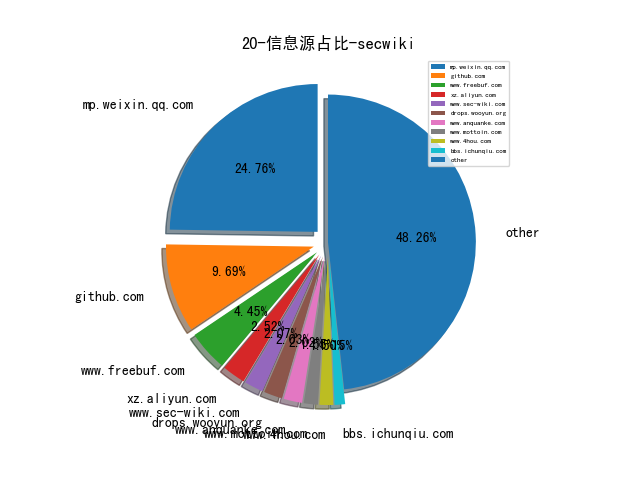
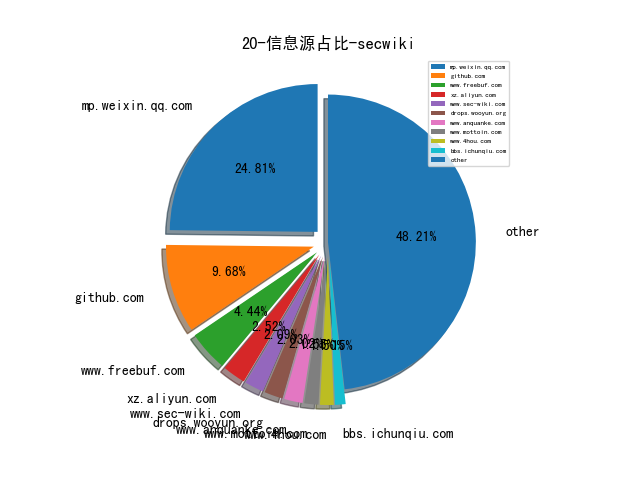
2025-07-17 00:07:00

diff --git a/README_20.md b/README_20.md
@@ -1312,7 +1312,7 @@
 | 安全圈 | None | 【安全圈】500美元就能遥控列车急刹？美国铁路12年前的惊天漏洞，如今才被曝光！ | https://mp.weixin.qq.com/s?__biz=MzIzMzE4NDU1OQ==&mid=2652070668&idx=3&sn=f6738b4d25376f97072651a492c6a6f8 | 1416| 
 | 安全威胁纵横 | None | 12 年未修复！500 美元设备就能远程逼停北美列车，隐患有多惊人？ | https://mp.weixin.qq.com/s?__biz=Mzk0MDYwMjE3OQ==&mid=2247486962&idx=1&sn=7d9531e1ebcb9fcd5d4109f0a701b4ee | 131| 
 | 安全牛 | None | 启明星辰发布业绩预告：上半年预计亏损0.73亿至1.03亿；发布48小时内就被越狱破解，Grok-4应用安全性令人担忧 , 牛览 | https://mp.weixin.qq.com/s?__biz=MjM5Njc3NjM4MA==&mid=2651138043&idx=2&sn=8fc398bc5c6fd64192af434032d100c5 | 504| 
-| 安博通 | None | 安博通实力入围信通院《数字安全护航技术能力全景图》，39项中选彰显硬核科技 | https://mp.weixin.qq.com/s?__biz=MzIyNTA5Mzc2OA==&mid=2651138014&idx=1&sn=e1cb0828dd113bf96c8461a58f6820a4 | 25| 
+| 安博通 | 安博通 | 安博通实力入围信通院《数字安全护航技术能力全景图》，39项中选彰显硬核科技 | https://mp.weixin.qq.com/s?__biz=MzIyNTA5Mzc2OA==&mid=2651138014&idx=1&sn=e1cb0828dd113bf96c8461a58f6820a4 | 25| 
 | 安在 | None | 1分钟安全科普 , 系统运维安全 | https://mp.weixin.qq.com/s?__biz=MzU5ODgzNTExOQ==&mid=2247641707&idx=3&sn=8044787ed1d6850f7128d188a71b599f | 863| 
 | 安恒信息 | None | “一周懿语”丨第十九期 | https://mp.weixin.qq.com/s?__biz=MjM5NTE0MjQyMg==&mid=2650630676&idx=1&sn=e3a33a8a0fe3c263c7249cafe0c39673 | 263| 
 | 安恒信息CERT | None | 网络安全信息与动态周报2025年第27期（6月30日-7月6日） | https://mp.weixin.qq.com/s?__biz=MzUzOTE2OTM5Mg==&mid=2247490480&idx=3&sn=b538e978c2c121ce0367666569aa7c77 | 107| 
@@ -1322,7 +1322,7 @@
 | 工业信息安全创新中心 | None | 工信安创参加成都市经信局新型技改服务商政策解读培训会 | https://mp.weixin.qq.com/s?__biz=MzAwNTc0ODM3Nw==&mid=2247489621&idx=1&sn=32531b2973bf3f202c3fedbe044a92bb | 11| 
 | 弱口令安全实验室 | None | 个人向国际网络安全证书深度推荐 | https://mp.weixin.qq.com/s?__biz=MzkyNzMyNjcwNQ==&mid=2247488485&idx=1&sn=1094affd5d674c0a438c4c569655cc6c | 12| 
 | 恒星EDU | None | 共绘网安未来，《2025网络安全产业人才发展报告》问卷调查邀您共同参与！（可参与抽奖） | https://mp.weixin.qq.com/s?__biz=MzU1MzE3Njg2Mw==&mid=2247511084&idx=1&sn=94ee828c0d3eec3a7911cb5b6499b58a | 36| 
-| 恒脑与AI | None | AI网安攻防成国防第一战线！美国防部8亿天价AI合同落定硅谷四巨头！ | https://mp.weixin.qq.com/s?__biz=MzI1MDU5NjYwNg==&mid=2247497193&idx=1&sn=e257547e92a2b5fea5e3054e4785ffc7 | 9| 
+| 恒脑与AI | AI前沿 | AI网安攻防成国防第一战线！美国防部8亿天价AI合同落定硅谷四巨头！ | https://mp.weixin.qq.com/s?__biz=MzI1MDU5NjYwNg==&mid=2247497193&idx=1&sn=e257547e92a2b5fea5e3054e4785ffc7 | 9| 
 | 情报分析师 | None | 俄军向乌军机器人投降！无人机与机器人如何改写战争法则，讨论我面临的无人作战的安全挑战 | https://mp.weixin.qq.com/s?__biz=MzA3Mjc1MTkwOA==&mid=2650561776&idx=2&sn=60ffa4afe644054abc4c0e78df8b0c46 | 459| 
 | 情报分析师Pro | None | 俄军向乌军机器人投降！无人机与机器人如何改写战争法则，讨论我面临的无人作战的安全挑战 | https://mp.weixin.qq.com/s?__biz=MzkwNzM0NzA5MA==&mid=2247510263&idx=1&sn=c335a9dc48d968e7d91ae67d596f0e9f | 189| 
 | 技术修道场 | None | FileFix实战首秀：当你的文件管理器地址栏成为Interlock勒索软件的“帮凶” | https://mp.weixin.qq.com/s?__biz=MzA4NTY4MjAyMQ==&mid=2447900948&idx=1&sn=0c33c4cd0e2ea8f0370f734fcc4800a0 | 142| 
@@ -1343,7 +1343,7 @@
 | 漏洞集萃 | None | 就因API没做权限校验，他把别人的任务列表给删了，还赚了$5000 | https://mp.weixin.qq.com/s?__biz=MzkxNjc0ODA3NQ==&mid=2247484080&idx=1&sn=d97c3b8d1228301da0fad28a23fbccc4 | 8| 
 | 独眼情报 | None | 篇 16 | https://mp.weixin.qq.com/s?__biz=MzkzNDIzNDUxOQ==&mid=2247500779&idx=2&sn=65579783519267560a16a625a26527dc | 631| 
 | 生有可恋 | hyang0 | 如何申请一个90天的免费证书 | https://mp.weixin.qq.com/s?__biz=Mzk0MTI4NTIzNQ==&mid=2247494226&idx=1&sn=1eeae8d1520ea9633a476fa827a22e4c | 137| 
-| 白帽子社区团队 | None | 推荐一个网络安全模型 | https://mp.weixin.qq.com/s?__biz=MzkzNDQ0MDcxMw==&mid=2247488097&idx=1&sn=3eca6197d6b82caa4ad7de23166da5fe | 83| 
+| 白帽子社区团队 | tHnn | 推荐一个网络安全模型 | https://mp.weixin.qq.com/s?__biz=MzkzNDQ0MDcxMw==&mid=2247488097&idx=1&sn=3eca6197d6b82caa4ad7de23166da5fe | 83| 
 | 百灵猫开源情报分析师 | None | 美稀土破局的新动向和后续手段 | https://mp.weixin.qq.com/s?__biz=MzkxMTA3MDk3NA==&mid=2247487870&idx=1&sn=ed08b63d8adc1b81305826407632f500 | 62| 
 | 看雪学苑 | None | 想赢 CTF 竞赛？先学这30小时，五大方向全覆盖 | https://mp.weixin.qq.com/s?__biz=MjM5NTc2MDYxMw==&mid=2458597210&idx=3&sn=1f9f5c255276f9dc4ea1b725fc672c4b | 1132| 
 | 知道创宇 | None | 破解网络黑话烂梗，拦截血腥暴力，ScanA 如何为未成年人网络暑期 “排雷”？ | https://mp.weixin.qq.com/s?__biz=MjM5NzA3Nzg2MA==&mid=2649872000&idx=1&sn=272e959d68d3f48d5ff390a43772ed0a | 166| 
@@ -1356,7 +1356,7 @@
 | 网安守护 | None | 最近的 AI 新闻很多，来个极速的早报+点评 | https://mp.weixin.qq.com/s?__biz=MzU4NDY3MTk2NQ==&mid=2247491784&idx=1&sn=9ad5d686bf5fc58f5a640399d3da1456 | 110| 
 | 网易易盾 | None | 网易易盾全系安全产品兼容16KB Google Play | https://mp.weixin.qq.com/s?__biz=MzAwNTg2NjYxOA==&mid=2650743814&idx=1&sn=bdb492cc7b011f4c9ff1f751080ff9e4 | 34| 
 | 网络安全和信息化 | None | 你的充电宝安全吗？未来新国标将设置更严格安全技术标准 | https://mp.weixin.qq.com/s?__biz=MjM5MzMwMDU5NQ==&mid=2649173796&idx=2&sn=c70b6007a08bb7de6f20de240e5c61b0 | 663| 
-| 网络安全备忘录 | None | 《GB/T 45909—2025 网络安全技术 数字水印技术实现指南》（自2026年1月1日起实施） | https://mp.weixin.qq.com/s?__biz=MzA3NDMyNDM0NQ==&mid=2247485124&idx=1&sn=f58e5c44ca66d6f2f6f3a6313a20c15c | 38| 
+| 网络安全备忘录 |  | 《GB/T 45909—2025 网络安全技术 数字水印技术实现指南》（自2026年1月1日起实施） | https://mp.weixin.qq.com/s?__biz=MzA3NDMyNDM0NQ==&mid=2247485124&idx=1&sn=f58e5c44ca66d6f2f6f3a6313a20c15c | 38| 
 | 网络技术联盟站 | None | 全屋光纤不是梦，但为什么光纤至今取代不了网线？ | https://mp.weixin.qq.com/s?__biz=MzIyMzIwNzAxMQ==&mid=2649469387&idx=1&sn=77d56597415b64313c77d0dc5720297c | 329| 
 | 美创资讯 | None | 权威发布 , 美创数据安全一体化平台DSC市场份额排名前五，领跑专精厂商 | https://mp.weixin.qq.com/s?__biz=MzA3NDE0NDUyNA==&mid=2650816326&idx=1&sn=9847dd21609342b15a499dc34af2b488 | 29| 
 | 聚铭网络 | None | AISOC运营手记 , 别让攻防演练沦为“纸上谈兵” | https://mp.weixin.qq.com/s?__biz=MzIzMDQwMjg5NA==&mid=2247507630&idx=1&sn=cccba79036818c8d1d884bfb07b52199 | 56| 
@@ -1375,7 +1375,7 @@
 | 长亭安全观察 | None | 关注｜中央网信办就《数据安全技术 电子产品信息清除技术要求》强制性国家标准（征求意见稿）公开征求意见 | https://mp.weixin.qq.com/s?__biz=MzkyNDUyNzU1MQ==&mid=2247488007&idx=1&sn=902cdc830196c60a165a7930374e03ac | 169| 
 | 阿乐你好 | None | ？？？ | https://mp.weixin.qq.com/s?__biz=MzIxNTIzNTExMQ==&mid=2247491955&idx=1&sn=5240f92d05b9ecf4e4899de349b88ccb | 124| 
 | 雷神众测 | None | 雷神众测漏洞周报2025.7.7-2025.7.13 | https://mp.weixin.qq.com/s?__biz=MzI0NzEwOTM0MA==&mid=2652503462&idx=1&sn=0f722394919e6b8af1e3bb654383e66c | 73| 
-| 雾帜智能 | None | AI + 等保 = ？答案：一键生成安全审计报告 | https://mp.weixin.qq.com/s?__biz=Mzg4MjI0MDAyMg==&mid=2247488729&idx=1&sn=580b3065b4816eb41d3b47a4daec5c86 | 6| 
+| 雾帜智能 | 吴梓豪Zachary | AI + 等保 = ？答案：一键生成安全审计报告 | https://mp.weixin.qq.com/s?__biz=Mzg4MjI0MDAyMg==&mid=2247488729&idx=1&sn=580b3065b4816eb41d3b47a4daec5c86 | 6| 
 | 顺丰安全应急响应中心 | None | 白帽行为准则：技术需克制，合规是首要责任 | https://mp.weixin.qq.com/s?__biz=MzU3OTAyODk4MQ==&mid=2247491357&idx=1&sn=9c3d5cc9a73c40f919887eda03b00bbd | 41| 
 | 飓风网络安全 | None | 7.15hvv情报 | https://mp.weixin.qq.com/s?__biz=MzI3NzMzNzE5Ng==&mid=2247490436&idx=1&sn=2fa3f7d81465e27c8e80c8d626338ff5 | 344| 
 | 飞天诚信 | 飞天诚信 | 战绩可查！飞天诚信参与起草的多项行业标准在密标委官网公开 | https://mp.weixin.qq.com/s?__biz=MjM5NDE1MjU2Mg==&mid=2649877280&idx=1&sn=221556a7b47b3d29dfbd37c7c0dcce78 | 50| 
@@ -1485,7 +1485,6 @@
 | 小黑子安全 | None | 记一次企业src漏洞挖掘连爆七个漏洞！ | https://mp.weixin.qq.com/s?__biz=Mzg5NDg4MzYzNQ==&mid=2247486552&idx=1&sn=41c4e4a40fd104f53e22f5a7143c88ad | 34| 
 | 山石网科 | None | 聚焦主论坛｜“安芯守护 智启未来”——2025年 · 安全守护者峰会 | https://mp.weixin.qq.com/s?__biz=MjM5MTk4MjA2MA==&mid=2650108134&idx=1&sn=20e952a1754f606a7bbb11920e392065 | 10| 
 | 山石网科安全技术研究院 | None | 聚焦主论坛｜“安芯守护 智启未来”——2025年 · 安全守护者峰会 | https://mp.weixin.qq.com/s?__biz=MzUzMDUxNTE1Mw==&mid=2247512510&idx=1&sn=d5474a401ff36899db1e1843cbfe6972 | 141| 
-| 希潭实验室 | None | 第130篇：方程式工具包图形界面版V0.51更新+新功能+提升稳定性 | https://mp.weixin.qq.com/s?__biz=MzkzMjI1NjI3Ng==&mid=2247487640&idx=1&sn=8fcd8b78297611b4d8e0fbeb8e4a14de | 31| 
 | 平凡安全 | None | 【攻防实战】记一次DC2攻防实战 | https://mp.weixin.qq.com/s?__biz=Mzg5NTU2NjA1Mw==&mid=2247503322&idx=1&sn=9988d5d41c1396bf85d2791dfe286f62 | 5| 
 | 张无瑕思密达 | None | 结婚越来越少，生孩越来越少，已是大势所趋，甚至人心所向 | https://mp.weixin.qq.com/s?__biz=MzkwMzI1ODUwNA==&mid=2247488059&idx=1&sn=9f2e1d2a3c9505b68ad22180e8b65600 | 60| 
 | 掌控安全EDU | None | 两款工具授权机制逆向分析纪实 | https://mp.weixin.qq.com/s?__biz=MzUyODkwNDIyMg==&mid=2247550881&idx=1&sn=39b573830c82e12482bb47e553ce3358 | 439| 
@@ -1726,6 +1725,7 @@
 | 二进制磨剑 | 二进制磨剑 | IDA 逆向分析不再重复劳动：MCP × LLM 的自动化实践 | https://mp.weixin.qq.com/s/5J4B7KrfxcjuRBrg9pnDjA | 70| 
 | 哆啦安全 | None | Zygisk注入器 - 动动手指轻松注入并隐藏你的SO文件 | https://mp.weixin.qq.com/s?__biz=Mzg2NzUzNzk1Mw==&mid=2247498287&idx=2&sn=33adf71010b2cfe4ec9b1a9ec3e68b8f | 129| 
 | 工联安全众测 | None | 工信部印发《2025年护航新型工业化网络安全专项行动方案》（附全文） | https://mp.weixin.qq.com/s?__biz=MzkyMDMwNTkwNg==&mid=2247487713&idx=1&sn=3d9fc64039958175c63bf0c4d5e1b8fb | 34| 
+| 希潭实验室 | abc123info | 第122篇：国hu攻防比赛蓝队防守经验总结（中篇） | https://mp.weixin.qq.com/s/m5Ka-nZbh73iB_hholABOQ | 31| 
 | 永信至诚 | None | “银狐风波”复盘：看某大型石化集团如何基于「数字风洞」管理数字健康 | https://mp.weixin.qq.com/s?__biz=MzAwNDUyMjk4MQ==&mid=2454831032&idx=1&sn=cae3f5e5db21dc42b534f75b1b4082f5 | 36| 
 | 腾讯技术工程 | 腾讯悟空团队 | 悟空Agent实战：LLaMA-Factory高危0day漏洞挖掘与修复 | https://mp.weixin.qq.com/s/UV8gb01reKewskxRc_0NQA | 135| 
 | 超安全 | None | 六个实用策略，打造2025年网络安全宣传周峰值体验！ | https://mp.weixin.qq.com/s?__biz=MzU0MDc5ODM0Mg==&mid=2247485172&idx=1&sn=96f5ef91a0c8cce84e98abbc136fa270 | 26| 

diff --git a/README_2025.md b/README_2025.md
@@ -370,7 +370,7 @@
 | 安全圈 | None | 【安全圈】500美元就能遥控列车急刹？美国铁路12年前的惊天漏洞，如今才被曝光！ | https://mp.weixin.qq.com/s?__biz=MzIzMzE4NDU1OQ==&mid=2652070668&idx=3&sn=f6738b4d25376f97072651a492c6a6f8 | 446| 
 | 安全威胁纵横 | None | 12 年未修复！500 美元设备就能远程逼停北美列车，隐患有多惊人？ | https://mp.weixin.qq.com/s?__biz=Mzk0MDYwMjE3OQ==&mid=2247486962&idx=1&sn=7d9531e1ebcb9fcd5d4109f0a701b4ee | 72| 
 | 安全牛 | None | 启明星辰发布业绩预告：上半年预计亏损0.73亿至1.03亿；发布48小时内就被越狱破解，Grok-4应用安全性令人担忧 , 牛览 | https://mp.weixin.qq.com/s?__biz=MjM5Njc3NjM4MA==&mid=2651138043&idx=2&sn=8fc398bc5c6fd64192af434032d100c5 | 164| 
-| 安博通 | None | 安博通实力入围信通院《数字安全护航技术能力全景图》，39项中选彰显硬核科技 | https://mp.weixin.qq.com/s?__biz=MzIyNTA5Mzc2OA==&mid=2651138014&idx=1&sn=e1cb0828dd113bf96c8461a58f6820a4 | 21| 
+| 安博通 | 安博通 | 安博通实力入围信通院《数字安全护航技术能力全景图》，39项中选彰显硬核科技 | https://mp.weixin.qq.com/s?__biz=MzIyNTA5Mzc2OA==&mid=2651138014&idx=1&sn=e1cb0828dd113bf96c8461a58f6820a4 | 21| 
 | 安在 | None | 1分钟安全科普 , 系统运维安全 | https://mp.weixin.qq.com/s?__biz=MzU5ODgzNTExOQ==&mid=2247641707&idx=3&sn=8044787ed1d6850f7128d188a71b599f | 286| 
 | 安恒信息 | None | “一周懿语”丨第十九期 | https://mp.weixin.qq.com/s?__biz=MjM5NTE0MjQyMg==&mid=2650630676&idx=1&sn=e3a33a8a0fe3c263c7249cafe0c39673 | 34| 
 | 安恒信息CERT | None | 网络安全信息与动态周报2025年第27期（6月30日-7月6日） | https://mp.weixin.qq.com/s?__biz=MzUzOTE2OTM5Mg==&mid=2247490480&idx=3&sn=b538e978c2c121ce0367666569aa7c77 | 44| 
@@ -380,7 +380,7 @@
 | 工业信息安全创新中心 | None | 工信安创参加成都市经信局新型技改服务商政策解读培训会 | https://mp.weixin.qq.com/s?__biz=MzAwNTc0ODM3Nw==&mid=2247489621&idx=1&sn=32531b2973bf3f202c3fedbe044a92bb | 10| 
 | 弱口令安全实验室 | None | 个人向国际网络安全证书深度推荐 | https://mp.weixin.qq.com/s?__biz=MzkyNzMyNjcwNQ==&mid=2247488485&idx=1&sn=1094affd5d674c0a438c4c569655cc6c | 4| 
 | 恒星EDU | None | 共绘网安未来，《2025网络安全产业人才发展报告》问卷调查邀您共同参与！（可参与抽奖） | https://mp.weixin.qq.com/s?__biz=MzU1MzE3Njg2Mw==&mid=2247511084&idx=1&sn=94ee828c0d3eec3a7911cb5b6499b58a | 8| 
-| 恒脑与AI | None | AI网安攻防成国防第一战线！美国防部8亿天价AI合同落定硅谷四巨头！ | https://mp.weixin.qq.com/s?__biz=MzI1MDU5NjYwNg==&mid=2247497193&idx=1&sn=e257547e92a2b5fea5e3054e4785ffc7 | 9| 
+| 恒脑与AI | AI前沿 | AI网安攻防成国防第一战线！美国防部8亿天价AI合同落定硅谷四巨头！ | https://mp.weixin.qq.com/s?__biz=MzI1MDU5NjYwNg==&mid=2247497193&idx=1&sn=e257547e92a2b5fea5e3054e4785ffc7 | 9| 
 | 情报分析师 | None | 俄军向乌军机器人投降！无人机与机器人如何改写战争法则，讨论我面临的无人作战的安全挑战 | https://mp.weixin.qq.com/s?__biz=MzA3Mjc1MTkwOA==&mid=2650561776&idx=2&sn=60ffa4afe644054abc4c0e78df8b0c46 | 105| 
 | 情报分析师Pro | None | 俄军向乌军机器人投降！无人机与机器人如何改写战争法则，讨论我面临的无人作战的安全挑战 | https://mp.weixin.qq.com/s?__biz=MzkwNzM0NzA5MA==&mid=2247510263&idx=1&sn=c335a9dc48d968e7d91ae67d596f0e9f | 71| 
 | 技术修道场 | None | FileFix实战首秀：当你的文件管理器地址栏成为Interlock勒索软件的“帮凶” | https://mp.weixin.qq.com/s?__biz=MzA4NTY4MjAyMQ==&mid=2447900948&idx=1&sn=0c33c4cd0e2ea8f0370f734fcc4800a0 | 58| 
@@ -401,7 +401,7 @@
 | 漏洞集萃 | None | 就因API没做权限校验，他把别人的任务列表给删了，还赚了$5000 | https://mp.weixin.qq.com/s?__biz=MzkxNjc0ODA3NQ==&mid=2247484080&idx=1&sn=d97c3b8d1228301da0fad28a23fbccc4 | 8| 
 | 独眼情报 | None | 篇 16 | https://mp.weixin.qq.com/s?__biz=MzkzNDIzNDUxOQ==&mid=2247500779&idx=2&sn=65579783519267560a16a625a26527dc | 235| 
 | 生有可恋 | hyang0 | 如何申请一个90天的免费证书 | https://mp.weixin.qq.com/s?__biz=Mzk0MTI4NTIzNQ==&mid=2247494226&idx=1&sn=1eeae8d1520ea9633a476fa827a22e4c | 62| 
-| 白帽子社区团队 | None | 推荐一个网络安全模型 | https://mp.weixin.qq.com/s?__biz=MzkzNDQ0MDcxMw==&mid=2247488097&idx=1&sn=3eca6197d6b82caa4ad7de23166da5fe | 26| 
+| 白帽子社区团队 | tHnn | 推荐一个网络安全模型 | https://mp.weixin.qq.com/s?__biz=MzkzNDQ0MDcxMw==&mid=2247488097&idx=1&sn=3eca6197d6b82caa4ad7de23166da5fe | 26| 
 | 百灵猫开源情报分析师 | None | 美稀土破局的新动向和后续手段 | https://mp.weixin.qq.com/s?__biz=MzkxMTA3MDk3NA==&mid=2247487870&idx=1&sn=ed08b63d8adc1b81305826407632f500 | 48| 
 | 看雪学苑 | None | 想赢 CTF 竞赛？先学这30小时，五大方向全覆盖 | https://mp.weixin.qq.com/s?__biz=MjM5NTc2MDYxMw==&mid=2458597210&idx=3&sn=1f9f5c255276f9dc4ea1b725fc672c4b | 340| 
 | 知道创宇 | None | 破解网络黑话烂梗，拦截血腥暴力，ScanA 如何为未成年人网络暑期 “排雷”？ | https://mp.weixin.qq.com/s?__biz=MjM5NzA3Nzg2MA==&mid=2649872000&idx=1&sn=272e959d68d3f48d5ff390a43772ed0a | 42| 
@@ -414,7 +414,7 @@
 | 网安守护 | None | 最近的 AI 新闻很多，来个极速的早报+点评 | https://mp.weixin.qq.com/s?__biz=MzU4NDY3MTk2NQ==&mid=2247491784&idx=1&sn=9ad5d686bf5fc58f5a640399d3da1456 | 58| 
 | 网易易盾 | None | 网易易盾全系安全产品兼容16KB Google Play | https://mp.weixin.qq.com/s?__biz=MzAwNTg2NjYxOA==&mid=2650743814&idx=1&sn=bdb492cc7b011f4c9ff1f751080ff9e4 | 31| 
 | 网络安全和信息化 | None | 你的充电宝安全吗？未来新国标将设置更严格安全技术标准 | https://mp.weixin.qq.com/s?__biz=MjM5MzMwMDU5NQ==&mid=2649173796&idx=2&sn=c70b6007a08bb7de6f20de240e5c61b0 | 272| 
-| 网络安全备忘录 | None | 《GB/T 45909—2025 网络安全技术 数字水印技术实现指南》（自2026年1月1日起实施） | https://mp.weixin.qq.com/s?__biz=MzA3NDMyNDM0NQ==&mid=2247485124&idx=1&sn=f58e5c44ca66d6f2f6f3a6313a20c15c | 18| 
+| 网络安全备忘录 |  | 《GB/T 45909—2025 网络安全技术 数字水印技术实现指南》（自2026年1月1日起实施） | https://mp.weixin.qq.com/s?__biz=MzA3NDMyNDM0NQ==&mid=2247485124&idx=1&sn=f58e5c44ca66d6f2f6f3a6313a20c15c | 18| 
 | 网络技术联盟站 | None | 全屋光纤不是梦，但为什么光纤至今取代不了网线？ | https://mp.weixin.qq.com/s?__biz=MzIyMzIwNzAxMQ==&mid=2649469387&idx=1&sn=77d56597415b64313c77d0dc5720297c | 133| 
 | 美创资讯 | None | 权威发布 , 美创数据安全一体化平台DSC市场份额排名前五，领跑专精厂商 | https://mp.weixin.qq.com/s?__biz=MzA3NDE0NDUyNA==&mid=2650816326&idx=1&sn=9847dd21609342b15a499dc34af2b488 | 26| 
 | 聚铭网络 | None | AISOC运营手记 , 别让攻防演练沦为“纸上谈兵” | https://mp.weixin.qq.com/s?__biz=MzIzMDQwMjg5NA==&mid=2247507630&idx=1&sn=cccba79036818c8d1d884bfb07b52199 | 50| 
@@ -433,7 +433,7 @@
 | 长亭安全观察 | None | 关注｜中央网信办就《数据安全技术 电子产品信息清除技术要求》强制性国家标准（征求意见稿）公开征求意见 | https://mp.weixin.qq.com/s?__biz=MzkyNDUyNzU1MQ==&mid=2247488007&idx=1&sn=902cdc830196c60a165a7930374e03ac | 85| 
 | 阿乐你好 | None | ？？？ | https://mp.weixin.qq.com/s?__biz=MzIxNTIzNTExMQ==&mid=2247491955&idx=1&sn=5240f92d05b9ecf4e4899de349b88ccb | 42| 
 | 雷神众测 | None | 雷神众测漏洞周报2025.7.7-2025.7.13 | https://mp.weixin.qq.com/s?__biz=MzI0NzEwOTM0MA==&mid=2652503462&idx=1&sn=0f722394919e6b8af1e3bb654383e66c | 12| 
-| 雾帜智能 | None | AI + 等保 = ？答案：一键生成安全审计报告 | https://mp.weixin.qq.com/s?__biz=Mzg4MjI0MDAyMg==&mid=2247488729&idx=1&sn=580b3065b4816eb41d3b47a4daec5c86 | 6| 
+| 雾帜智能 | 吴梓豪Zachary | AI + 等保 = ？答案：一键生成安全审计报告 | https://mp.weixin.qq.com/s?__biz=Mzg4MjI0MDAyMg==&mid=2247488729&idx=1&sn=580b3065b4816eb41d3b47a4daec5c86 | 6| 
 | 顺丰安全应急响应中心 | None | 白帽行为准则：技术需克制，合规是首要责任 | https://mp.weixin.qq.com/s?__biz=MzU3OTAyODk4MQ==&mid=2247491357&idx=1&sn=9c3d5cc9a73c40f919887eda03b00bbd | 10| 
 | 飓风网络安全 | None | 7.15hvv情报 | https://mp.weixin.qq.com/s?__biz=MzI3NzMzNzE5Ng==&mid=2247490436&idx=1&sn=2fa3f7d81465e27c8e80c8d626338ff5 | 96| 
 | 飞天诚信 | 飞天诚信 | 战绩可查！飞天诚信参与起草的多项行业标准在密标委官网公开 | https://mp.weixin.qq.com/s?__biz=MjM5NDE1MjU2Mg==&mid=2649877280&idx=1&sn=221556a7b47b3d29dfbd37c7c0dcce78 | 49| 
@@ -543,7 +543,6 @@
 | 小黑子安全 | None | 记一次企业src漏洞挖掘连爆七个漏洞！ | https://mp.weixin.qq.com/s?__biz=Mzg5NDg4MzYzNQ==&mid=2247486552&idx=1&sn=41c4e4a40fd104f53e22f5a7143c88ad | 2| 
 | 山石网科 | None | 聚焦主论坛｜“安芯守护 智启未来”——2025年 · 安全守护者峰会 | https://mp.weixin.qq.com/s?__biz=MjM5MTk4MjA2MA==&mid=2650108134&idx=1&sn=20e952a1754f606a7bbb11920e392065 | 8| 
 | 山石网科安全技术研究院 | None | 聚焦主论坛｜“安芯守护 智启未来”——2025年 · 安全守护者峰会 | https://mp.weixin.qq.com/s?__biz=MzUzMDUxNTE1Mw==&mid=2247512510&idx=1&sn=d5474a401ff36899db1e1843cbfe6972 | 32| 
-| 希潭实验室 | None | 第130篇：方程式工具包图形界面版V0.51更新+新功能+提升稳定性 | https://mp.weixin.qq.com/s?__biz=MzkzMjI1NjI3Ng==&mid=2247487640&idx=1&sn=8fcd8b78297611b4d8e0fbeb8e4a14de | 11| 
 | 平凡安全 | None | 【攻防实战】记一次DC2攻防实战 | https://mp.weixin.qq.com/s?__biz=Mzg5NTU2NjA1Mw==&mid=2247503322&idx=1&sn=9988d5d41c1396bf85d2791dfe286f62 | 5| 
 | 张无瑕思密达 | None | 结婚越来越少，生孩越来越少，已是大势所趋，甚至人心所向 | https://mp.weixin.qq.com/s?__biz=MzkwMzI1ODUwNA==&mid=2247488059&idx=1&sn=9f2e1d2a3c9505b68ad22180e8b65600 | 20| 
 | 掌控安全EDU | None | 两款工具授权机制逆向分析纪实 | https://mp.weixin.qq.com/s?__biz=MzUyODkwNDIyMg==&mid=2247550881&idx=1&sn=39b573830c82e12482bb47e553ce3358 | 68| 
@@ -784,6 +783,7 @@
 | 二进制磨剑 | 二进制磨剑 | IDA 逆向分析不再重复劳动：MCP × LLM 的自动化实践 | https://mp.weixin.qq.com/s/5J4B7KrfxcjuRBrg9pnDjA | 19| 
 | 哆啦安全 | None | Zygisk注入器 - 动动手指轻松注入并隐藏你的SO文件 | https://mp.weixin.qq.com/s?__biz=Mzg2NzUzNzk1Mw==&mid=2247498287&idx=2&sn=33adf71010b2cfe4ec9b1a9ec3e68b8f | 53| 
 | 工联安全众测 | None | 工信部印发《2025年护航新型工业化网络安全专项行动方案》（附全文） | https://mp.weixin.qq.com/s?__biz=MzkyMDMwNTkwNg==&mid=2247487713&idx=1&sn=3d9fc64039958175c63bf0c4d5e1b8fb | 19| 
+| 希潭实验室 | abc123info | 第122篇：国hu攻防比赛蓝队防守经验总结（中篇） | https://mp.weixin.qq.com/s/m5Ka-nZbh73iB_hholABOQ | 11| 
 | 永信至诚 | None | “银狐风波”复盘：看某大型石化集团如何基于「数字风洞」管理数字健康 | https://mp.weixin.qq.com/s?__biz=MzAwNDUyMjk4MQ==&mid=2454831032&idx=1&sn=cae3f5e5db21dc42b534f75b1b4082f5 | 5| 
 | 腾讯技术工程 | 腾讯悟空团队 | 悟空Agent实战：LLaMA-Factory高危0day漏洞挖掘与修复 | https://mp.weixin.qq.com/s/UV8gb01reKewskxRc_0NQA | 59| 
 | 超安全 | None | 六个实用策略，打造2025年网络安全宣传周峰值体验！ | https://mp.weixin.qq.com/s?__biz=MzU0MDc5ODM0Mg==&mid=2247485172&idx=1&sn=96f5ef91a0c8cce84e98abbc136fa270 | 20| 

diff --git a/README.md b/README.md
@@ -101,7 +101,7 @@
 | 安全圈 | None | 【安全圈】500美元就能遥控列车急刹？美国铁路12年前的惊天漏洞，如今才被曝光！ | https://mp.weixin.qq.com/s?__biz=MzIzMzE4NDU1OQ==&mid=2652070668&idx=3&sn=f6738b4d25376f97072651a492c6a6f8 | 29| 
 | 安全威胁纵横 | None | 12 年未修复！500 美元设备就能远程逼停北美列车，隐患有多惊人？ | https://mp.weixin.qq.com/s?__biz=Mzk0MDYwMjE3OQ==&mid=2247486962&idx=1&sn=7d9531e1ebcb9fcd5d4109f0a701b4ee | 5| 
 | 安全牛 | None | 启明星辰发布业绩预告：上半年预计亏损0.73亿至1.03亿；发布48小时内就被越狱破解，Grok-4应用安全性令人担忧 , 牛览 | https://mp.weixin.qq.com/s?__biz=MjM5Njc3NjM4MA==&mid=2651138043&idx=2&sn=8fc398bc5c6fd64192af434032d100c5 | 10| 
-| 安博通 | None | 安博通实力入围信通院《数字安全护航技术能力全景图》，39项中选彰显硬核科技 | https://mp.weixin.qq.com/s?__biz=MzIyNTA5Mzc2OA==&mid=2651138014&idx=1&sn=e1cb0828dd113bf96c8461a58f6820a4 | 1| 
+| 安博通 | 安博通 | 安博通实力入围信通院《数字安全护航技术能力全景图》，39项中选彰显硬核科技 | https://mp.weixin.qq.com/s?__biz=MzIyNTA5Mzc2OA==&mid=2651138014&idx=1&sn=e1cb0828dd113bf96c8461a58f6820a4 | 1| 
 | 安在 | None | 1分钟安全科普 , 系统运维安全 | https://mp.weixin.qq.com/s?__biz=MzU5ODgzNTExOQ==&mid=2247641707&idx=3&sn=8044787ed1d6850f7128d188a71b599f | 26| 
 | 安恒信息 | None | “一周懿语”丨第十九期 | https://mp.weixin.qq.com/s?__biz=MjM5NTE0MjQyMg==&mid=2650630676&idx=1&sn=e3a33a8a0fe3c263c7249cafe0c39673 | 3| 
 | 安恒信息CERT | None | 网络安全信息与动态周报2025年第27期（6月30日-7月6日） | https://mp.weixin.qq.com/s?__biz=MzUzOTE2OTM5Mg==&mid=2247490480&idx=3&sn=b538e978c2c121ce0367666569aa7c77 | 8| 
@@ -111,7 +111,7 @@
 | 工业信息安全创新中心 | None | 工信安创参加成都市经信局新型技改服务商政策解读培训会 | https://mp.weixin.qq.com/s?__biz=MzAwNTc0ODM3Nw==&mid=2247489621&idx=1&sn=32531b2973bf3f202c3fedbe044a92bb | 7| 
 | 弱口令安全实验室 | None | 个人向国际网络安全证书深度推荐 | https://mp.weixin.qq.com/s?__biz=MzkyNzMyNjcwNQ==&mid=2247488485&idx=1&sn=1094affd5d674c0a438c4c569655cc6c | 1| 
 | 恒星EDU | None | 共绘网安未来，《2025网络安全产业人才发展报告》问卷调查邀您共同参与！（可参与抽奖） | https://mp.weixin.qq.com/s?__biz=MzU1MzE3Njg2Mw==&mid=2247511084&idx=1&sn=94ee828c0d3eec3a7911cb5b6499b58a | 2| 
-| 恒脑与AI | None | AI网安攻防成国防第一战线！美国防部8亿天价AI合同落定硅谷四巨头！ | https://mp.weixin.qq.com/s?__biz=MzI1MDU5NjYwNg==&mid=2247497193&idx=1&sn=e257547e92a2b5fea5e3054e4785ffc7 | 1| 
+| 恒脑与AI | AI前沿 | AI网安攻防成国防第一战线！美国防部8亿天价AI合同落定硅谷四巨头！ | https://mp.weixin.qq.com/s?__biz=MzI1MDU5NjYwNg==&mid=2247497193&idx=1&sn=e257547e92a2b5fea5e3054e4785ffc7 | 1| 
 | 情报分析师 | None | 俄军向乌军机器人投降！无人机与机器人如何改写战争法则，讨论我面临的无人作战的安全挑战 | https://mp.weixin.qq.com/s?__biz=MzA3Mjc1MTkwOA==&mid=2650561776&idx=2&sn=60ffa4afe644054abc4c0e78df8b0c46 | 10| 
 | 情报分析师Pro | None | 俄军向乌军机器人投降！无人机与机器人如何改写战争法则，讨论我面临的无人作战的安全挑战 | https://mp.weixin.qq.com/s?__biz=MzkwNzM0NzA5MA==&mid=2247510263&idx=1&sn=c335a9dc48d968e7d91ae67d596f0e9f | 9| 
 | 技术修道场 | None | FileFix实战首秀：当你的文件管理器地址栏成为Interlock勒索软件的“帮凶” | https://mp.weixin.qq.com/s?__biz=MzA4NTY4MjAyMQ==&mid=2447900948&idx=1&sn=0c33c4cd0e2ea8f0370f734fcc4800a0 | 9| 
@@ -132,7 +132,7 @@
 | 漏洞集萃 | None | 就因API没做权限校验，他把别人的任务列表给删了，还赚了$5000 | https://mp.weixin.qq.com/s?__biz=MzkxNjc0ODA3NQ==&mid=2247484080&idx=1&sn=d97c3b8d1228301da0fad28a23fbccc4 | 3| 
 | 独眼情报 | None | 篇 16 | https://mp.weixin.qq.com/s?__biz=MzkzNDIzNDUxOQ==&mid=2247500779&idx=2&sn=65579783519267560a16a625a26527dc | 16| 
 | 生有可恋 | hyang0 | 如何申请一个90天的免费证书 | https://mp.weixin.qq.com/s?__biz=Mzk0MTI4NTIzNQ==&mid=2247494226&idx=1&sn=1eeae8d1520ea9633a476fa827a22e4c | 8| 
-| 白帽子社区团队 | None | 推荐一个网络安全模型 | https://mp.weixin.qq.com/s?__biz=MzkzNDQ0MDcxMw==&mid=2247488097&idx=1&sn=3eca6197d6b82caa4ad7de23166da5fe | 3| 
+| 白帽子社区团队 | tHnn | 推荐一个网络安全模型 | https://mp.weixin.qq.com/s?__biz=MzkzNDQ0MDcxMw==&mid=2247488097&idx=1&sn=3eca6197d6b82caa4ad7de23166da5fe | 3| 
 | 百灵猫开源情报分析师 | None | 美稀土破局的新动向和后续手段 | https://mp.weixin.qq.com/s?__biz=MzkxMTA3MDk3NA==&mid=2247487870&idx=1&sn=ed08b63d8adc1b81305826407632f500 | 3| 
 | 看雪学苑 | None | 想赢 CTF 竞赛？先学这30小时，五大方向全覆盖 | https://mp.weixin.qq.com/s?__biz=MjM5NTc2MDYxMw==&mid=2458597210&idx=3&sn=1f9f5c255276f9dc4ea1b725fc672c4b | 24| 
 | 知道创宇 | None | 破解网络黑话烂梗，拦截血腥暴力，ScanA 如何为未成年人网络暑期 “排雷”？ | https://mp.weixin.qq.com/s?__biz=MjM5NzA3Nzg2MA==&mid=2649872000&idx=1&sn=272e959d68d3f48d5ff390a43772ed0a | 4| 
@@ -145,7 +145,7 @@
 | 网安守护 | None | 最近的 AI 新闻很多，来个极速的早报+点评 | https://mp.weixin.qq.com/s?__biz=MzU4NDY3MTk2NQ==&mid=2247491784&idx=1&sn=9ad5d686bf5fc58f5a640399d3da1456 | 4| 
 | 网易易盾 | None | 网易易盾全系安全产品兼容16KB Google Play | https://mp.weixin.qq.com/s?__biz=MzAwNTg2NjYxOA==&mid=2650743814&idx=1&sn=bdb492cc7b011f4c9ff1f751080ff9e4 | 2| 
 | 网络安全和信息化 | None | 你的充电宝安全吗？未来新国标将设置更严格安全技术标准 | https://mp.weixin.qq.com/s?__biz=MjM5MzMwMDU5NQ==&mid=2649173796&idx=2&sn=c70b6007a08bb7de6f20de240e5c61b0 | 20| 
-| 网络安全备忘录 | None | 《GB/T 45909—2025 网络安全技术 数字水印技术实现指南》（自2026年1月1日起实施） | https://mp.weixin.qq.com/s?__biz=MzA3NDMyNDM0NQ==&mid=2247485124&idx=1&sn=f58e5c44ca66d6f2f6f3a6313a20c15c | 2| 
+| 网络安全备忘录 |  | 《GB/T 45909—2025 网络安全技术 数字水印技术实现指南》（自2026年1月1日起实施） | https://mp.weixin.qq.com/s?__biz=MzA3NDMyNDM0NQ==&mid=2247485124&idx=1&sn=f58e5c44ca66d6f2f6f3a6313a20c15c | 2| 
 | 网络技术联盟站 | None | 全屋光纤不是梦，但为什么光纤至今取代不了网线？ | https://mp.weixin.qq.com/s?__biz=MzIyMzIwNzAxMQ==&mid=2649469387&idx=1&sn=77d56597415b64313c77d0dc5720297c | 10| 
 | 美创资讯 | None | 权威发布 , 美创数据安全一体化平台DSC市场份额排名前五，领跑专精厂商 | https://mp.weixin.qq.com/s?__biz=MzA3NDE0NDUyNA==&mid=2650816326&idx=1&sn=9847dd21609342b15a499dc34af2b488 | 4| 
 | 聚铭网络 | None | AISOC运营手记 , 别让攻防演练沦为“纸上谈兵” | https://mp.weixin.qq.com/s?__biz=MzIzMDQwMjg5NA==&mid=2247507630&idx=1&sn=cccba79036818c8d1d884bfb07b52199 | 4| 
@@ -164,7 +164,7 @@
 | 长亭安全观察 | None | 关注｜中央网信办就《数据安全技术 电子产品信息清除技术要求》强制性国家标准（征求意见稿）公开征求意见 | https://mp.weixin.qq.com/s?__biz=MzkyNDUyNzU1MQ==&mid=2247488007&idx=1&sn=902cdc830196c60a165a7930374e03ac | 6| 
 | 阿乐你好 | None | ？？？ | https://mp.weixin.qq.com/s?__biz=MzIxNTIzNTExMQ==&mid=2247491955&idx=1&sn=5240f92d05b9ecf4e4899de349b88ccb | 9| 
 | 雷神众测 | None | 雷神众测漏洞周报2025.7.7-2025.7.13 | https://mp.weixin.qq.com/s?__biz=MzI0NzEwOTM0MA==&mid=2652503462&idx=1&sn=0f722394919e6b8af1e3bb654383e66c | 1| 
-| 雾帜智能 | None | AI + 等保 = ？答案：一键生成安全审计报告 | https://mp.weixin.qq.com/s?__biz=Mzg4MjI0MDAyMg==&mid=2247488729&idx=1&sn=580b3065b4816eb41d3b47a4daec5c86 | 3| 
+| 雾帜智能 | 吴梓豪Zachary | AI + 等保 = ？答案：一键生成安全审计报告 | https://mp.weixin.qq.com/s?__biz=Mzg4MjI0MDAyMg==&mid=2247488729&idx=1&sn=580b3065b4816eb41d3b47a4daec5c86 | 3| 
 | 顺丰安全应急响应中心 | None | 白帽行为准则：技术需克制，合规是首要责任 | https://mp.weixin.qq.com/s?__biz=MzU3OTAyODk4MQ==&mid=2247491357&idx=1&sn=9c3d5cc9a73c40f919887eda03b00bbd | 1| 
 | 飓风网络安全 | None | 7.15hvv情报 | https://mp.weixin.qq.com/s?__biz=MzI3NzMzNzE5Ng==&mid=2247490436&idx=1&sn=2fa3f7d81465e27c8e80c8d626338ff5 | 8| 
 | 飞天诚信 | 飞天诚信 | 战绩可查！飞天诚信参与起草的多项行业标准在密标委官网公开 | https://mp.weixin.qq.com/s?__biz=MjM5NDE1MjU2Mg==&mid=2649877280&idx=1&sn=221556a7b47b3d29dfbd37c7c0dcce78 | 7| 
@@ -274,7 +274,6 @@
 | 小黑子安全 | None | 记一次企业src漏洞挖掘连爆七个漏洞！ | https://mp.weixin.qq.com/s?__biz=Mzg5NDg4MzYzNQ==&mid=2247486552&idx=1&sn=41c4e4a40fd104f53e22f5a7143c88ad | 2| 
 | 山石网科 | None | 聚焦主论坛｜“安芯守护 智启未来”——2025年 · 安全守护者峰会 | https://mp.weixin.qq.com/s?__biz=MjM5MTk4MjA2MA==&mid=2650108134&idx=1&sn=20e952a1754f606a7bbb11920e392065 | 1| 
 | 山石网科安全技术研究院 | None | 聚焦主论坛｜“安芯守护 智启未来”——2025年 · 安全守护者峰会 | https://mp.weixin.qq.com/s?__biz=MzUzMDUxNTE1Mw==&mid=2247512510&idx=1&sn=d5474a401ff36899db1e1843cbfe6972 | 2| 
-| 希潭实验室 | None | 第130篇：方程式工具包图形界面版V0.51更新+新功能+提升稳定性 | https://mp.weixin.qq.com/s?__biz=MzkzMjI1NjI3Ng==&mid=2247487640&idx=1&sn=8fcd8b78297611b4d8e0fbeb8e4a14de | 5| 
 | 平凡安全 | None | 【攻防实战】记一次DC2攻防实战 | https://mp.weixin.qq.com/s?__biz=Mzg5NTU2NjA1Mw==&mid=2247503322&idx=1&sn=9988d5d41c1396bf85d2791dfe286f62 | 1| 
 | 张无瑕思密达 | None | 结婚越来越少，生孩越来越少，已是大势所趋，甚至人心所向 | https://mp.weixin.qq.com/s?__biz=MzkwMzI1ODUwNA==&mid=2247488059&idx=1&sn=9f2e1d2a3c9505b68ad22180e8b65600 | 3| 
 | 掌控安全EDU | None | 两款工具授权机制逆向分析纪实 | https://mp.weixin.qq.com/s?__biz=MzUyODkwNDIyMg==&mid=2247550881&idx=1&sn=39b573830c82e12482bb47e553ce3358 | 8| 
@@ -515,6 +514,7 @@
 | 二进制磨剑 | 二进制磨剑 | IDA 逆向分析不再重复劳动：MCP × LLM 的自动化实践 | https://mp.weixin.qq.com/s/5J4B7KrfxcjuRBrg9pnDjA | 3| 
 | 哆啦安全 | None | Zygisk注入器 - 动动手指轻松注入并隐藏你的SO文件 | https://mp.weixin.qq.com/s?__biz=Mzg2NzUzNzk1Mw==&mid=2247498287&idx=2&sn=33adf71010b2cfe4ec9b1a9ec3e68b8f | 4| 
 | 工联安全众测 | None | 工信部印发《2025年护航新型工业化网络安全专项行动方案》（附全文） | https://mp.weixin.qq.com/s?__biz=MzkyMDMwNTkwNg==&mid=2247487713&idx=1&sn=3d9fc64039958175c63bf0c4d5e1b8fb | 1| 
+| 希潭实验室 | abc123info | 第122篇：国hu攻防比赛蓝队防守经验总结（中篇） | https://mp.weixin.qq.com/s/m5Ka-nZbh73iB_hholABOQ | 5| 
 | 永信至诚 | None | “银狐风波”复盘：看某大型石化集团如何基于「数字风洞」管理数字健康 | https://mp.weixin.qq.com/s?__biz=MzAwNDUyMjk4MQ==&mid=2454831032&idx=1&sn=cae3f5e5db21dc42b534f75b1b4082f5 | 1| 
 | 腾讯技术工程 | 腾讯悟空团队 | 悟空Agent实战：LLaMA-Factory高危0day漏洞挖掘与修复 | https://mp.weixin.qq.com/s/UV8gb01reKewskxRc_0NQA | 6| 
 | 超安全 | None | 六个实用策略，打造2025年网络安全宣传周峰值体验！ | https://mp.weixin.qq.com/s?__biz=MzU0MDc5ODM0Mg==&mid=2247485172&idx=1&sn=96f5ef91a0c8cce84e98abbc136fa270 | 1| 

diff --git a/README_202507.md b/README_202507.md
@@ -101,7 +101,7 @@
 | 安全圈 | None | 【安全圈】500美元就能遥控列车急刹？美国铁路12年前的惊天漏洞，如今才被曝光！ | https://mp.weixin.qq.com/s?__biz=MzIzMzE4NDU1OQ==&mid=2652070668&idx=3&sn=f6738b4d25376f97072651a492c6a6f8 | 29| 
 | 安全威胁纵横 | None | 12 年未修复！500 美元设备就能远程逼停北美列车，隐患有多惊人？ | https://mp.weixin.qq.com/s?__biz=Mzk0MDYwMjE3OQ==&mid=2247486962&idx=1&sn=7d9531e1ebcb9fcd5d4109f0a701b4ee | 5| 
 | 安全牛 | None | 启明星辰发布业绩预告：上半年预计亏损0.73亿至1.03亿；发布48小时内就被越狱破解，Grok-4应用安全性令人担忧 , 牛览 | https://mp.weixin.qq.com/s?__biz=MjM5Njc3NjM4MA==&mid=2651138043&idx=2&sn=8fc398bc5c6fd64192af434032d100c5 | 10| 
-| 安博通 | None | 安博通实力入围信通院《数字安全护航技术能力全景图》，39项中选彰显硬核科技 | https://mp.weixin.qq.com/s?__biz=MzIyNTA5Mzc2OA==&mid=2651138014&idx=1&sn=e1cb0828dd113bf96c8461a58f6820a4 | 1| 
+| 安博通 | 安博通 | 安博通实力入围信通院《数字安全护航技术能力全景图》，39项中选彰显硬核科技 | https://mp.weixin.qq.com/s?__biz=MzIyNTA5Mzc2OA==&mid=2651138014&idx=1&sn=e1cb0828dd113bf96c8461a58f6820a4 | 1| 
 | 安在 | None | 1分钟安全科普 , 系统运维安全 | https://mp.weixin.qq.com/s?__biz=MzU5ODgzNTExOQ==&mid=2247641707&idx=3&sn=8044787ed1d6850f7128d188a71b599f | 26| 
 | 安恒信息 | None | “一周懿语”丨第十九期 | https://mp.weixin.qq.com/s?__biz=MjM5NTE0MjQyMg==&mid=2650630676&idx=1&sn=e3a33a8a0fe3c263c7249cafe0c39673 | 3| 
 | 安恒信息CERT | None | 网络安全信息与动态周报2025年第27期（6月30日-7月6日） | https://mp.weixin.qq.com/s?__biz=MzUzOTE2OTM5Mg==&mid=2247490480&idx=3&sn=b538e978c2c121ce0367666569aa7c77 | 8| 
@@ -111,7 +111,7 @@
 | 工业信息安全创新中心 | None | 工信安创参加成都市经信局新型技改服务商政策解读培训会 | https://mp.weixin.qq.com/s?__biz=MzAwNTc0ODM3Nw==&mid=2247489621&idx=1&sn=32531b2973bf3f202c3fedbe044a92bb | 7| 
 | 弱口令安全实验室 | None | 个人向国际网络安全证书深度推荐 | https://mp.weixin.qq.com/s?__biz=MzkyNzMyNjcwNQ==&mid=2247488485&idx=1&sn=1094affd5d674c0a438c4c569655cc6c | 1| 
 | 恒星EDU | None | 共绘网安未来，《2025网络安全产业人才发展报告》问卷调查邀您共同参与！（可参与抽奖） | https://mp.weixin.qq.com/s?__biz=MzU1MzE3Njg2Mw==&mid=2247511084&idx=1&sn=94ee828c0d3eec3a7911cb5b6499b58a | 2| 
-| 恒脑与AI | None | AI网安攻防成国防第一战线！美国防部8亿天价AI合同落定硅谷四巨头！ | https://mp.weixin.qq.com/s?__biz=MzI1MDU5NjYwNg==&mid=2247497193&idx=1&sn=e257547e92a2b5fea5e3054e4785ffc7 | 1| 
+| 恒脑与AI | AI前沿 | AI网安攻防成国防第一战线！美国防部8亿天价AI合同落定硅谷四巨头！ | https://mp.weixin.qq.com/s?__biz=MzI1MDU5NjYwNg==&mid=2247497193&idx=1&sn=e257547e92a2b5fea5e3054e4785ffc7 | 1| 
 | 情报分析师 | None | 俄军向乌军机器人投降！无人机与机器人如何改写战争法则，讨论我面临的无人作战的安全挑战 | https://mp.weixin.qq.com/s?__biz=MzA3Mjc1MTkwOA==&mid=2650561776&idx=2&sn=60ffa4afe644054abc4c0e78df8b0c46 | 10| 
 | 情报分析师Pro | None | 俄军向乌军机器人投降！无人机与机器人如何改写战争法则，讨论我面临的无人作战的安全挑战 | https://mp.weixin.qq.com/s?__biz=MzkwNzM0NzA5MA==&mid=2247510263&idx=1&sn=c335a9dc48d968e7d91ae67d596f0e9f | 9| 
 | 技术修道场 | None | FileFix实战首秀：当你的文件管理器地址栏成为Interlock勒索软件的“帮凶” | https://mp.weixin.qq.com/s?__biz=MzA4NTY4MjAyMQ==&mid=2447900948&idx=1&sn=0c33c4cd0e2ea8f0370f734fcc4800a0 | 9| 
@@ -132,7 +132,7 @@
 | 漏洞集萃 | None | 就因API没做权限校验，他把别人的任务列表给删了，还赚了$5000 | https://mp.weixin.qq.com/s?__biz=MzkxNjc0ODA3NQ==&mid=2247484080&idx=1&sn=d97c3b8d1228301da0fad28a23fbccc4 | 3| 
 | 独眼情报 | None | 篇 16 | https://mp.weixin.qq.com/s?__biz=MzkzNDIzNDUxOQ==&mid=2247500779&idx=2&sn=65579783519267560a16a625a26527dc | 16| 
 | 生有可恋 | hyang0 | 如何申请一个90天的免费证书 | https://mp.weixin.qq.com/s?__biz=Mzk0MTI4NTIzNQ==&mid=2247494226&idx=1&sn=1eeae8d1520ea9633a476fa827a22e4c | 8| 
-| 白帽子社区团队 | None | 推荐一个网络安全模型 | https://mp.weixin.qq.com/s?__biz=MzkzNDQ0MDcxMw==&mid=2247488097&idx=1&sn=3eca6197d6b82caa4ad7de23166da5fe | 3| 
+| 白帽子社区团队 | tHnn | 推荐一个网络安全模型 | https://mp.weixin.qq.com/s?__biz=MzkzNDQ0MDcxMw==&mid=2247488097&idx=1&sn=3eca6197d6b82caa4ad7de23166da5fe | 3| 
 | 百灵猫开源情报分析师 | None | 美稀土破局的新动向和后续手段 | https://mp.weixin.qq.com/s?__biz=MzkxMTA3MDk3NA==&mid=2247487870&idx=1&sn=ed08b63d8adc1b81305826407632f500 | 3| 
 | 看雪学苑 | None | 想赢 CTF 竞赛？先学这30小时，五大方向全覆盖 | https://mp.weixin.qq.com/s?__biz=MjM5NTc2MDYxMw==&mid=2458597210&idx=3&sn=1f9f5c255276f9dc4ea1b725fc672c4b | 24| 
 | 知道创宇 | None | 破解网络黑话烂梗，拦截血腥暴力，ScanA 如何为未成年人网络暑期 “排雷”？ | https://mp.weixin.qq.com/s?__biz=MjM5NzA3Nzg2MA==&mid=2649872000&idx=1&sn=272e959d68d3f48d5ff390a43772ed0a | 4| 
@@ -145,7 +145,7 @@
 | 网安守护 | None | 最近的 AI 新闻很多，来个极速的早报+点评 | https://mp.weixin.qq.com/s?__biz=MzU4NDY3MTk2NQ==&mid=2247491784&idx=1&sn=9ad5d686bf5fc58f5a640399d3da1456 | 4| 
 | 网易易盾 | None | 网易易盾全系安全产品兼容16KB Google Play | https://mp.weixin.qq.com/s?__biz=MzAwNTg2NjYxOA==&mid=2650743814&idx=1&sn=bdb492cc7b011f4c9ff1f751080ff9e4 | 2| 
 | 网络安全和信息化 | None | 你的充电宝安全吗？未来新国标将设置更严格安全技术标准 | https://mp.weixin.qq.com/s?__biz=MjM5MzMwMDU5NQ==&mid=2649173796&idx=2&sn=c70b6007a08bb7de6f20de240e5c61b0 | 20| 
-| 网络安全备忘录 | None | 《GB/T 45909—2025 网络安全技术 数字水印技术实现指南》（自2026年1月1日起实施） | https://mp.weixin.qq.com/s?__biz=MzA3NDMyNDM0NQ==&mid=2247485124&idx=1&sn=f58e5c44ca66d6f2f6f3a6313a20c15c | 2| 
+| 网络安全备忘录 |  | 《GB/T 45909—2025 网络安全技术 数字水印技术实现指南》（自2026年1月1日起实施） | https://mp.weixin.qq.com/s?__biz=MzA3NDMyNDM0NQ==&mid=2247485124&idx=1&sn=f58e5c44ca66d6f2f6f3a6313a20c15c | 2| 
 | 网络技术联盟站 | None | 全屋光纤不是梦，但为什么光纤至今取代不了网线？ | https://mp.weixin.qq.com/s?__biz=MzIyMzIwNzAxMQ==&mid=2649469387&idx=1&sn=77d56597415b64313c77d0dc5720297c | 10| 
 | 美创资讯 | None | 权威发布 , 美创数据安全一体化平台DSC市场份额排名前五，领跑专精厂商 | https://mp.weixin.qq.com/s?__biz=MzA3NDE0NDUyNA==&mid=2650816326&idx=1&sn=9847dd21609342b15a499dc34af2b488 | 4| 
 | 聚铭网络 | None | AISOC运营手记 , 别让攻防演练沦为“纸上谈兵” | https://mp.weixin.qq.com/s?__biz=MzIzMDQwMjg5NA==&mid=2247507630&idx=1&sn=cccba79036818c8d1d884bfb07b52199 | 4| 
@@ -164,7 +164,7 @@
 | 长亭安全观察 | None | 关注｜中央网信办就《数据安全技术 电子产品信息清除技术要求》强制性国家标准（征求意见稿）公开征求意见 | https://mp.weixin.qq.com/s?__biz=MzkyNDUyNzU1MQ==&mid=2247488007&idx=1&sn=902cdc830196c60a165a7930374e03ac | 6| 
 | 阿乐你好 | None | ？？？ | https://mp.weixin.qq.com/s?__biz=MzIxNTIzNTExMQ==&mid=2247491955&idx=1&sn=5240f92d05b9ecf4e4899de349b88ccb | 9| 
 | 雷神众测 | None | 雷神众测漏洞周报2025.7.7-2025.7.13 | https://mp.weixin.qq.com/s?__biz=MzI0NzEwOTM0MA==&mid=2652503462&idx=1&sn=0f722394919e6b8af1e3bb654383e66c | 1| 
-| 雾帜智能 | None | AI + 等保 = ？答案：一键生成安全审计报告 | https://mp.weixin.qq.com/s?__biz=Mzg4MjI0MDAyMg==&mid=2247488729&idx=1&sn=580b3065b4816eb41d3b47a4daec5c86 | 3| 
+| 雾帜智能 | 吴梓豪Zachary | AI + 等保 = ？答案：一键生成安全审计报告 | https://mp.weixin.qq.com/s?__biz=Mzg4MjI0MDAyMg==&mid=2247488729&idx=1&sn=580b3065b4816eb41d3b47a4daec5c86 | 3| 
 | 顺丰安全应急响应中心 | None | 白帽行为准则：技术需克制，合规是首要责任 | https://mp.weixin.qq.com/s?__biz=MzU3OTAyODk4MQ==&mid=2247491357&idx=1&sn=9c3d5cc9a73c40f919887eda03b00bbd | 1| 
 | 飓风网络安全 | None | 7.15hvv情报 | https://mp.weixin.qq.com/s?__biz=MzI3NzMzNzE5Ng==&mid=2247490436&idx=1&sn=2fa3f7d81465e27c8e80c8d626338ff5 | 8| 
 | 飞天诚信 | 飞天诚信 | 战绩可查！飞天诚信参与起草的多项行业标准在密标委官网公开 | https://mp.weixin.qq.com/s?__biz=MjM5NDE1MjU2Mg==&mid=2649877280&idx=1&sn=221556a7b47b3d29dfbd37c7c0dcce78 | 7| 
@@ -274,7 +274,6 @@
 | 小黑子安全 | None | 记一次企业src漏洞挖掘连爆七个漏洞！ | https://mp.weixin.qq.com/s?__biz=Mzg5NDg4MzYzNQ==&mid=2247486552&idx=1&sn=41c4e4a40fd104f53e22f5a7143c88ad | 2| 
 | 山石网科 | None | 聚焦主论坛｜“安芯守护 智启未来”——2025年 · 安全守护者峰会 | https://mp.weixin.qq.com/s?__biz=MjM5MTk4MjA2MA==&mid=2650108134&idx=1&sn=20e952a1754f606a7bbb11920e392065 | 1| 
 | 山石网科安全技术研究院 | None | 聚焦主论坛｜“安芯守护 智启未来”——2025年 · 安全守护者峰会 | https://mp.weixin.qq.com/s?__biz=MzUzMDUxNTE1Mw==&mid=2247512510&idx=1&sn=d5474a401ff36899db1e1843cbfe6972 | 2| 
-| 希潭实验室 | None | 第130篇：方程式工具包图形界面版V0.51更新+新功能+提升稳定性 | https://mp.weixin.qq.com/s?__biz=MzkzMjI1NjI3Ng==&mid=2247487640&idx=1&sn=8fcd8b78297611b4d8e0fbeb8e4a14de | 5| 
 | 平凡安全 | None | 【攻防实战】记一次DC2攻防实战 | https://mp.weixin.qq.com/s?__biz=Mzg5NTU2NjA1Mw==&mid=2247503322&idx=1&sn=9988d5d41c1396bf85d2791dfe286f62 | 1| 
 | 张无瑕思密达 | None | 结婚越来越少，生孩越来越少，已是大势所趋，甚至人心所向 | https://mp.weixin.qq.com/s?__biz=MzkwMzI1ODUwNA==&mid=2247488059&idx=1&sn=9f2e1d2a3c9505b68ad22180e8b65600 | 3| 
 | 掌控安全EDU | None | 两款工具授权机制逆向分析纪实 | https://mp.weixin.qq.com/s?__biz=MzUyODkwNDIyMg==&mid=2247550881&idx=1&sn=39b573830c82e12482bb47e553ce3358 | 8| 
@@ -515,6 +514,7 @@
 | 二进制磨剑 | 二进制磨剑 | IDA 逆向分析不再重复劳动：MCP × LLM 的自动化实践 | https://mp.weixin.qq.com/s/5J4B7KrfxcjuRBrg9pnDjA | 3| 
 | 哆啦安全 | None | Zygisk注入器 - 动动手指轻松注入并隐藏你的SO文件 | https://mp.weixin.qq.com/s?__biz=Mzg2NzUzNzk1Mw==&mid=2247498287&idx=2&sn=33adf71010b2cfe4ec9b1a9ec3e68b8f | 4| 
 | 工联安全众测 | None | 工信部印发《2025年护航新型工业化网络安全专项行动方案》（附全文） | https://mp.weixin.qq.com/s?__biz=MzkyMDMwNTkwNg==&mid=2247487713&idx=1&sn=3d9fc64039958175c63bf0c4d5e1b8fb | 1| 
+| 希潭实验室 | abc123info | 第122篇：国hu攻防比赛蓝队防守经验总结（中篇） | https://mp.weixin.qq.com/s/m5Ka-nZbh73iB_hholABOQ | 5| 
 | 永信至诚 | None | “银狐风波”复盘：看某大型石化集团如何基于「数字风洞」管理数字健康 | https://mp.weixin.qq.com/s?__biz=MzAwNDUyMjk4MQ==&mid=2454831032&idx=1&sn=cae3f5e5db21dc42b534f75b1b4082f5 | 1| 
 | 腾讯技术工程 | 腾讯悟空团队 | 悟空Agent实战：LLaMA-Factory高危0day漏洞挖掘与修复 | https://mp.weixin.qq.com/s/UV8gb01reKewskxRc_0NQA | 6| 
 | 超安全 | None | 六个实用策略，打造2025年网络安全宣传周峰值体验！ | https://mp.weixin.qq.com/s?__biz=MzU0MDc5ODM0Mg==&mid=2247485172&idx=1&sn=96f5ef91a0c8cce84e98abbc136fa270 | 1| 
